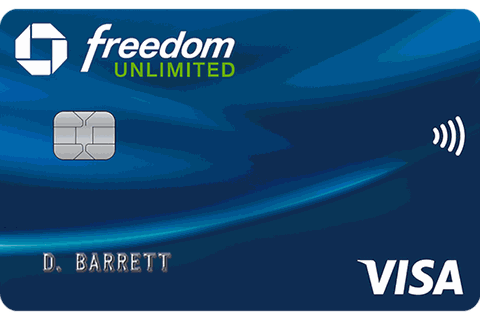
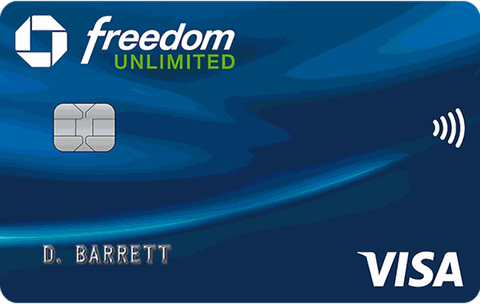
docs,fix(cards): document self-hosted card art; trim empty margins from nine images
The card-images section of the reference-page docs described hotlinked
issuer URLs. It now covers the static/img/cards/<slug>.png convention,
the test that enforces it, the absolute URLs used where an image leaves
the site, and why an image_url change needs a scoped force-reseed to
reach existing production cards.

ROADMAP: the stale cross-card comparison item is done (Sapphire Reserve
and Strata Elite no longer quote pre-refresh Platinum figures or Saks),
and the infographics item's Sapphire Reserve example is now past tense.

Nine card images carried transparent bands or side margins (up to 30px),
and the card slot's shadow and rounded corners outlined that empty space
rather than the card. Each is cropped to its visible pixels.

diff --git a/ROADMAP.md b/ROADMAP.md
@@ -47,7 +47,7 @@ Found during the 2026-08-31 card-video review, ordered by severity.
 - [x] **CI Go version pin is inert** — workflows pinned `1.22` while `go.mod` needs `1.26.1`, so `GOTOOLCHAIN=auto` re-downloaded the toolchain on every invocation and the module cache, keyed on the installed version, never matched (`Failed to restore: /usr/bin/tar ... exit code 2` on every run). Replaced with `go-version-file: go.mod` rather than another hardcoded number, so it cannot drift again.
 - [x] **Card data refresh** — CLEAR+ raised to $219 on 2026-07-01 (verified against Amex's own benefits page, which lists $219 for all five eligible cards), so all four cards carrying it were stale at $209; Amex Green's derived "pays them $59/year" was recomputed to $69. The $100 Saks credit ended 2026-07-01 and was removed. The seed prose also carried a duplicated Equinox `<li>` that would have rendered twice. Seeders gained a `-slug` filter so a corrective `-force` touches only the named cards — a bare `-force` would have rewritten prose on 30 of 52.
 - [x] **Apply the card data refresh to production** — applied 2026-08-31 with the scoped `-slug` reseed after taking a verified backup. Live pages now show CLEAR+ at $219 on all four cards, no active Saks credit, and the Equinox credit present in the Platinum prose. `recent_changes_json` was untouched, so the historical "Saks credit to be removed" changelog entry correctly survives.
-- [ ] **Stale cross-card comparison data** — `chase-sapphire-reserve`'s `competitor_comparison` still describes the Amex Platinum with pre-September-2025-refresh figures: "$200 hotel + $240 digital entertainment + $100 Saks + ... ($1,500+)". Hotel is now $600, digital entertainment $300, Saks is gone, and the credits total is roughly $3,000. `citi-strata-elite` also cites Saks as an example of Platinum's scattered merchant credits. Both need verifying against Amex before rewriting, like the main refresh did.
+- [x] **Stale cross-card comparison data** — `chase-sapphire-reserve`'s `competitor_comparison` described the Amex Platinum with pre-September-2025-refresh figures ("$200 hotel + $240 digital entertainment + $100 Saks + ... ($1,500+)"), and `citi-strata-elite` cited Saks as an example of Platinum's merchant credits. Fixed in the September 2026 verification of all 52 cards, which checked every card, comparison tables included, against issuer sources; neither card mentions Saks or the old figures now.
 
 - [x] **Article generation stopped for 26 days, silently** — the provider retired
       `openai/gpt-oss-120b` (generator), `meta/llama-3.3-70b-instruct` (critic) and
@@ -171,7 +171,7 @@ Found during the 2026-08-31 card-video review, ordered by severity.
 ## Up Next
 
 - [ ] Card explainer videos — YouTube-hosted, embedded per card page (Amex Platinum, Sapphire Reserve, Strata Elite so far)
-- [ ] **More card infographics** — each is `scripts/infographic-images.sh <slug> <png>` plus an entry in `internal/web/cardinfographics.go`. Verify the card's prose against the image before adding one: the drift test only confirms the image's figures appear somewhere in the text, so it cannot see a *second, older* figure. Sapphire Reserve's prose still claims the retired 1.5 cents per point and a $100 Global Entry credit beside an image that correctly says 1 cent plus Points Boost and $120.
+- [ ] **More card infographics** — each is `scripts/infographic-images.sh <slug> <png>` plus an entry in `internal/web/cardinfographics.go`. Verify the card's prose against the image before adding one: the drift test only confirms the image's figures appear somewhere in the text, so it cannot see a *second, older* figure. Sapphire Reserve's prose once claimed the retired 1.5 cents per point and a $100 Global Entry credit beside an image that correctly said 1 cent plus Points Boost and $120; the test passed anyway.
 - [ ] **Revisit video heading framing** — headings currently vary with the verdict: positive cards ask "is the $X fee worth it?", while the Strata Elite asks "do the credits cover the $595 fee?" because that video concludes they do not. Deliberate, so a heading never promises an answer the video does not give — but it means the phrasing is not uniform across cards. Worth a look once there are enough videos to judge whether the inconsistency reads as considered or as sloppy.
 - [ ] Additional model providers (Groq, Gemini) — reduce dependency on NVIDIA API
 - [ ] OAuth/SSO login — replace single bcrypt password with Google OAuth

diff --git a/docs/content/docs/features/reference-pages.md b/docs/content/docs/features/reference-pages.md
@@ -54,7 +54,11 @@ The seed data includes 42+ keyword variants per category to maximize link covera
 
 ## Card Images
 
-Each reference page has an `image_url` field for a card image. These are set in the seed data and can be updated through the admin dashboard.
+Card art is self-hosted: every card's `image_url` in the seed data is `/static/img/cards/<slug>.png`, a committed palette PNG with transparency, at most 480px wide. Hotlinking issuer images broke 15 cards when the issuers redeployed their sites, so `TestCardArt_IsSelfHosted` fails if any card points anywhere else or its file is missing.
+
+The path is relative on the site. Places where the image leaves the site (og:image, JSON-LD, and the newsletter's Card of the Week) turn it into an absolute URL on the configured domain.
+
+`image_url` can still be changed per card in the admin dashboard. A change to the seed file reaches existing production cards only through a scoped force-reseed (`seed-cards -force -slug <slug>`, or the Deploy workflow's `reseed_slugs` input), because a normal seed skips cards that already exist.
 
 ## Seed Script
 
